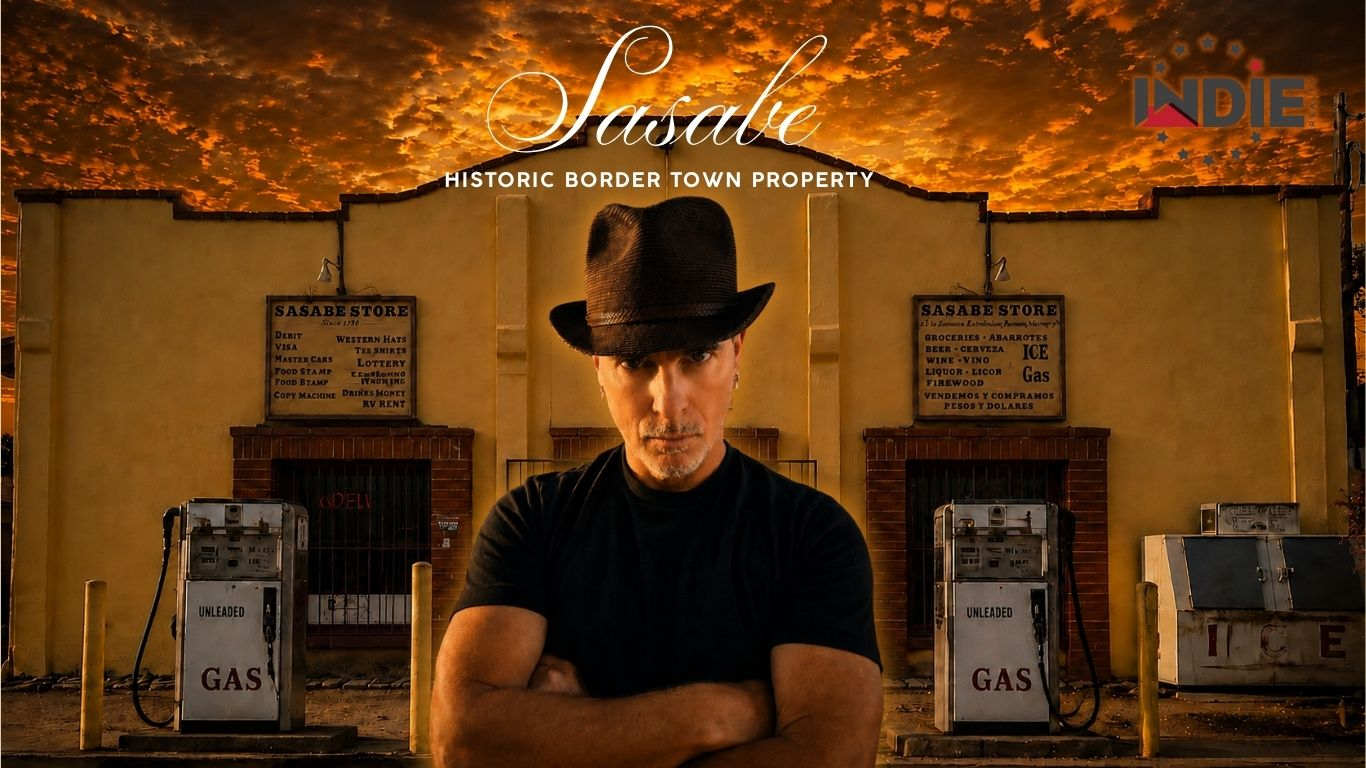
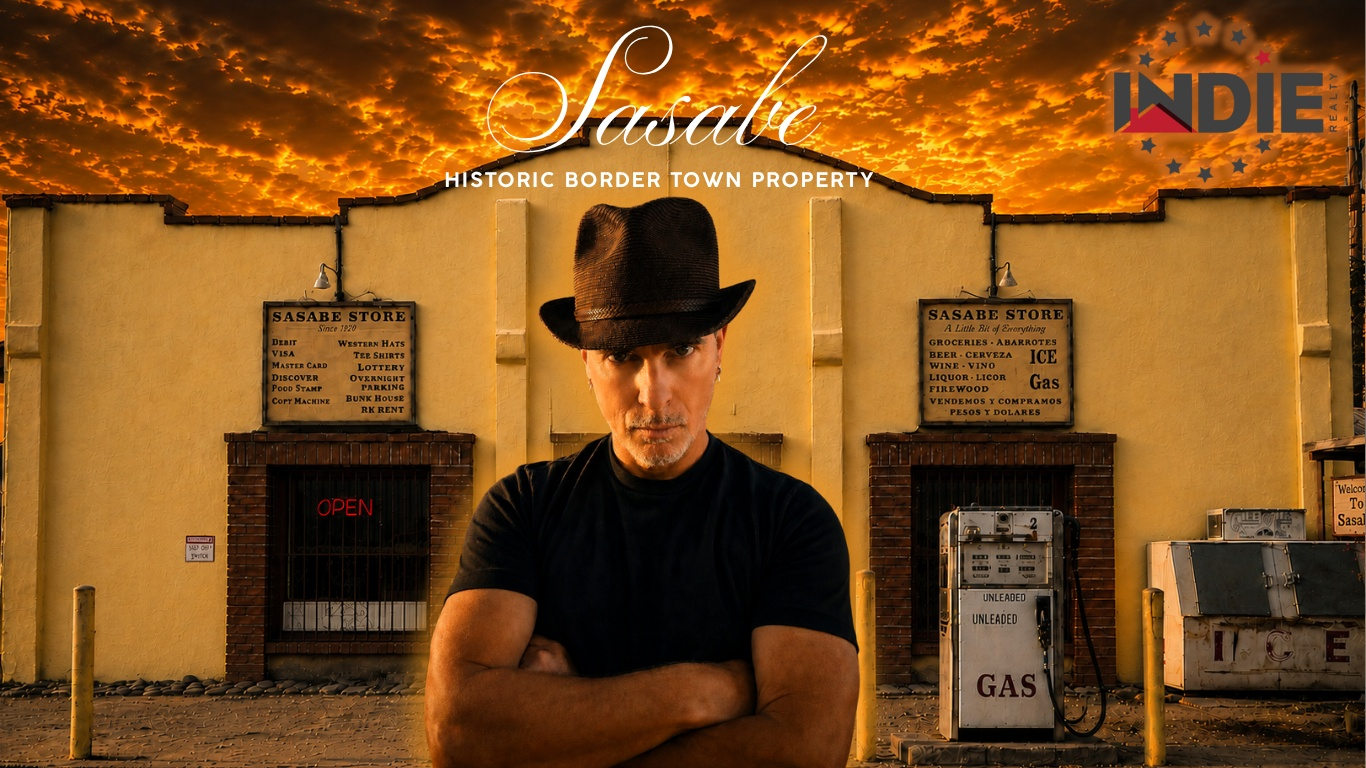
Add files via upload

diff --git a/styles.css b/styles.css
@@ -6,7 +6,7 @@
 .section-title h2,.split h2,.contact h2{font-size:clamp(48px,6vw,88px);font-weight:600;letter-spacing:.04em;text-transform:uppercase;line-height:.95;margin-bottom:0}.section-subtitle{font-family:'Cormorant Garamond',Georgia,serif;font-size:clamp(22px,2.3vw,32px);font-style:italic;color:#4d3b2d;line-height:1.25;margin:4px auto 0;max-width:760px}.section-subtitle.light-text{color:rgba(255,255,255,.86)}.section-subtitle.align-left{margin-left:0;text-align:left}.eyebrow{letter-spacing:8px;font-size:15px}.section-title{margin-bottom:42px}.section{padding:100px 30px}.cream{background:#efe3c4}.offwhite{background:#fbf7ef}
 .divider{width:330px;height:22px;margin:18px auto 22px;background:none;display:flex;align-items:center;justify-content:center;position:relative}.divider:before{content:'';display:block;width:100%;height:1px;background:linear-gradient(90deg,var(--ink) 0 38%,transparent 38% 62%,var(--ink) 62% 100%);opacity:.9;position:absolute;left:0;top:50%;transform:translateY(-50%)}.divider:after{content:'❦';font-size:22px;line-height:1;background:inherit;color:var(--ink);padding:0 14px;position:relative;z-index:2}.divider.light:before{background:linear-gradient(90deg,white 0 38%,transparent 38% 62%,white 62% 100%)}.divider.light:after{color:white}.divider.left{margin-left:0;margin-right:auto}
 #history .section-title .eyebrow{font-family:'Cormorant Garamond',Georgia,serif;font-size:clamp(50px,8vw,86px);letter-spacing:.18em;font-weight:600;color:#24211d}.split{gap:66px}.split p{font-size:17px}.framed-image{border:10px solid rgba(255,255,255,.24);box-shadow:0 12px 34px rgba(0,0,0,.16)}.spaced{font-size:18px;letter-spacing:9px;color:#1f1c18}.highlight-grid{gap:30px}.highlight-grid article{background:rgba(255,255,255,.55);box-shadow:none;border:1px solid rgba(80,61,42,.16);padding:0 0 24px;text-align:center}.highlight-grid img{height:215px;margin-bottom:22px}.highlight-grid h3{text-transform:uppercase;letter-spacing:.08em;font-size:21px}.highlight-grid p{padding:0 22px;margin-bottom:0}.wide-image{height:310px}.two-list{font-family:'Cormorant Garamond',Georgia,serif;font-size:25px;line-height:1.5}.two-list li{padding-left:8px}.italic{color:#3d2f24}.check-grid li{font-size:15px}.fineprint{font-size:14px}.parcel-tabs{margin-top:8px}.parcel-tab{background:#fffaf0}.parcel-display img{box-shadow:0 10px 28px rgba(0,0,0,.12)}.parcel-info{border:1px solid rgba(80,61,42,.16)}.disclosure-cards article{box-shadow:none;border:1px solid rgba(80,61,42,.16);background:rgba(255,255,255,.48)}.disclosure-cards h3{text-transform:uppercase;letter-spacing:.08em;font-size:20px}.button-stack .btn{border-radius:0}.footer{background:#1f1209}.footer img{max-width:220px;opacity:.95}.tagline{font-style:italic}
-@media(max-width:900px){.section-title h2,.split h2,.contact h2{font-size:clamp(40px,12vw,58px)}.section-subtitle{font-size:24px}.hero{height:68vh;min-height:460px}.divider{width:240px}.section{padding:70px 18px}.wide-image{height:210px}.highlight-grid img{height:185px}}
+@media(max-width:900px){.section-title h2,.split h2,.contact h2{font-size:clamp(40px,12vw,58px)}.section-subtitle{font-size:24px}.divider{width:240px}.section{padding:70px 18px}.wide-image{height:210px}.highlight-grid img{height:185px}}
 
 
 .section-title h2,.split h2,.contact h2{font-size:44px!important;line-height:1.15!important;text-transform:none!important;} .section-subtitle{font-size:26px!important;} @media(max-width:900px){.section-title h2,.split h2,.contact h2{font-size:34px!important}.section-subtitle{font-size:22px!important}}
@@ -182,3 +182,117 @@
   #vision .tall-image{width:100%!important;border-width:10px!important;}
   .highlight-grid img{height:210px!important;}
 }
+
+/* ===== Hamburger menu (matches Real Estate with Nate AZ) ===== */
+.hamburger-btn{position:fixed;top:16px;right:16px;z-index:300;width:50px;height:50px;border-radius:50%;background:rgba(255,255,255,.94);backdrop-filter:blur(6px);border:none;box-shadow:0 3px 12px rgba(0,0,0,.18);cursor:pointer;display:flex;align-items:center;justify-content:center;}
+.hamburger-btn .bar{position:relative;width:22px;height:2px;background:#1b1b1b;}
+.hamburger-btn .bar::before,.hamburger-btn .bar::after{content:"";position:absolute;left:0;width:22px;height:2px;background:#1b1b1b;}
+.hamburger-btn .bar::before{top:-7px;}
+.hamburger-btn .bar::after{top:7px;}
+.nav-checkbox{display:none;}
+.nav-overlay{position:fixed;inset:0;z-index:250;background:rgba(12,11,9,.97);display:flex;flex-direction:column;align-items:center;justify-content:center;gap:22px;opacity:0;pointer-events:none;transform:translateY(-8px);transition:opacity .2s ease,transform .2s ease;overflow-y:auto;padding:80px 24px 40px;}
+.nav-checkbox:checked ~ .nav-overlay{opacity:1;pointer-events:auto;transform:translateY(0);}
+.nav-overlay a{color:#fff;font-family:'Cormorant Garamond',Georgia,serif;font-size:1.7rem;text-decoration:none;opacity:.85;letter-spacing:.03em;}
+.nav-overlay a:hover{opacity:1;color:#efe3c4;}
+.nav-overlay .brand-tag{position:absolute;top:22px;left:24px;color:#fff;opacity:.6;font-size:.85rem;font-weight:600;letter-spacing:.1em;text-transform:uppercase;font-family:Montserrat,sans-serif;}
+label.hamburger-btn{display:flex;}
+
+/* ===== Full-height sections, no scroll needed within a section ===== */
+.section,.hero,.snapshot,.video-section,.parcels-section,.disclosures,.contact{
+  min-height:100vh;
+  min-height:100dvh;
+  display:flex;
+  flex-direction:column;
+  justify-content:center;
+  overflow:hidden;
+  box-sizing:border-box;
+}
+.section{padding:70px 28px 30px;}
+h1{font-size:clamp(56px,11vw,140px);}
+h2{font-size:clamp(34px,5.5vw,64px);margin-bottom:16px;}
+.section-title{margin-bottom:26px;}
+.hero-subtitle{margin:14px auto;}
+.split{gap:36px;}
+.split p{font-size:15px;margin:0 0 10px;}
+.framed-image{max-height:46vh;object-fit:cover;width:100%;}
+.spaced{margin-top:20px;font-size:14px;letter-spacing:6px;}
+.highlight-grid{gap:16px;}
+.highlight-grid img{height:110px;margin-bottom:10px;}
+.highlight-grid article{padding:0 0 12px;}
+.highlight-grid h3{font-size:16px;margin-bottom:4px;}
+.highlight-grid p{font-size:13px;padding:0 12px;}
+.wide-image{height:130px;}
+.two-list{font-size:16px;margin-top:10px;}
+.two-list li{margin-bottom:8px;}
+.italic{font-size:20px;}
+.check-grid{gap:6px 18px;}
+.check-grid li{font-size:13px;}
+.fineprint{font-size:11px;}
+.tall-image{height:38vh;}
+.video-shell img{height:min(40vw,340px);}
+.play-button{width:80px;height:80px;font-size:30px;}
+.parcel-tabs{margin-bottom:14px;}
+.parcel-tab{padding:10px 18px;font-size:13px;}
+.parcel-display img{max-height:38vh;object-fit:cover;}
+.parcel-info{padding:18px;}
+.map-frame iframe{height:32vh;}
+.disclosure-cards{gap:8px;}
+.disclosure-cards article{padding:10px;}
+.disclosure-cards h3{font-size:14px;}
+.disclosure-cards p{font-size:12px;}
+.disclosure-layout>img{min-height:0;height:100%;max-height:70vh;}
+.button-stack{gap:8px;}
+.footer{padding:30px 24px;}
+.footer img{max-width:180px;margin-bottom:12px;}
+
+@media(max-width:900px){
+  .section,.hero,.snapshot,.video-section,.parcels-section,.disclosures,.contact{min-height:auto;}
+  .nav-overlay a{font-size:1.3rem;}
+}
+
+/* ===== Snapshot split layout ===== */
+.split-snapshot{display:flex;flex-direction:row;align-items:center;gap:40px;padding:70px 28px 30px;}
+.split-snapshot .section.inner{flex:1.1;max-width:none;margin:0;}
+.split-snapshot .snapshot-photo{flex:0.9;max-width:420px;max-height:60vh;width:100%;object-fit:cover;border:10px solid rgba(255,255,255,.5);box-shadow:0 14px 40px rgba(0,0,0,.18);}
+.section-title.align-left{text-align:left;margin:0 0 20px;max-width:none;}
+.section-subtitle.align-left{margin-left:0;text-align:left;}
+@media(max-width:900px){
+  .split-snapshot{flex-direction:column;}
+  .split-snapshot .snapshot-photo{max-width:100%;}
+}
+
+/* ===== Tighten gap above section headings (move content up) ===== */
+.section{justify-content:flex-start;padding-top:56px;}
+.section-title{margin-top:0;}
+.split{justify-content:flex-start;}
+.split-snapshot{justify-content:flex-start;}
+.snapshot,.video-section,.parcels-section,.disclosures,.contact{justify-content:flex-start;padding-top:56px;}
+
+/* ===== Contact photo sizing so nothing gets cut off ===== */
+.contact-photo{max-height:44vh;object-fit:cover;}
+
+/* ===== Snapshot single-column bullet list ===== */
+.two-list.one-col{columns:1;font-size:19px;}
+.two-list.one-col li{margin-bottom:12px;}
+
+/* ===== Single-column variant for Vision checklist ===== */
+.check-grid.one-col{columns:1;max-width:520px;}
+.check-grid.one-col li{margin-bottom:10px;}
+
+/* ===== Contact icon list ===== */
+.contact-icon-list{list-style:none;margin:18px 0 0;padding:0;display:flex;flex-direction:column;gap:12px;}
+.contact-icon-list li{display:flex;align-items:center;gap:12px;font-size:18px;}
+.contact-icon-list .icon{font-size:20px;width:26px;text-align:center;flex-shrink:0;}
+.contact-icon-list a{color:inherit;text-decoration:underline;text-underline-offset:4px;}
+.contact-icon-list a:hover{color:#8a6b3f;}
+
+/* ===== Uniform typography across all sections ===== */
+h2{font-size:clamp(40px,5.5vw,64px)!important;font-weight:600;letter-spacing:.03em;text-transform:uppercase;line-height:1.05;margin:0 0 8px;}
+.section-subtitle,.italic{font-size:19px!important;font-style:italic;font-family:'Cormorant Garamond',Georgia,serif;opacity:.85;margin:0 0 18px;}
+.split p:not(.fineprint):not(.italic):not(.subtitle),
+.split-snapshot p:not(.fineprint):not(.italic):not(.subtitle),
+.disclosure-cards p{
+  font-size:16px!important;line-height:1.55;
+}
+.two-list li,.check-grid li{font-size:18px!important;}
+h3{font-size:22px;letter-spacing:.02em;}

diff --git a/index.html b/index.html
@@ -11,20 +11,22 @@
   <link rel="stylesheet" href="styles.css" />
 </head>
 <body>
-  <header class="site-header" id="top">
-    
-    <button class="nav-toggle" aria-label="Open menu">☰</button>
-    <nav class="site-nav">
-      <a href="#history">History</a>
-      <a href="#highlights">Highlights</a>
-      <a href="#snapshot">Snapshot</a>
-      <a href="#vision">Vision</a>
-      <a href="#video">Video</a>
-      <a href="#parcels">Parcels</a>
-      <a href="#location">Location</a>
-      <a href="#contact">Contact</a>
-    </nav>
-  </header>
+  <input type="checkbox" id="nav-toggle" class="nav-checkbox">
+  <label class="hamburger-btn" for="nav-toggle"><span class="bar"></span></label>
+  <div class="nav-overlay">
+    <span class="brand-tag">Own Sasabe</span>
+    <a href="#top">Home</a>
+    <a href="#history">History</a>
+    <a href="#highlights">Highlights</a>
+    <a href="#snapshot">Snapshot</a>
+    <a href="#vision">Vision</a>
+    <a href="#video">Video</a>
+    <a href="#parcels">Parcels</a>
+    <a href="#location">Location</a>
+    <a href="#info">Disclosures</a>
+    <a href="#contact">Contact</a>
+  </div>
+  <a id="top"></a>
 
   <main>
     <section class="hero section-dark">
@@ -61,39 +63,39 @@
       </div>
     </section>
 
-    <section id="snapshot" class="snapshot cream">
-      <img class="wide-image" src="assets/images/drone-panorama.png" alt="Aerial panorama of Sasabe property land" />
+    <section id="snapshot" class="snapshot cream split-snapshot">
       <div class="section inner reveal">
-        <div class="section-title">
+        <div class="section-title align-left">
           <h2>Property Snapshot</h2>
-          <p class="section-subtitle">A quick overview of the property</p>
+          <p class="section-subtitle align-left">A quick overview of the property</p>
         </div>
-        <ul class="two-list">
-          <li>Approximately 453 Acres · Three Parcels</li>
-          <li>Offered at $3,500,000</li>
+        <ul class="two-list one-col">
+          <li>U.S.–Mexico Port of Entry</li>
+          <li>Offered at $5,000,000</li>
           <li>Historic Sasabe Store</li>
           <li>United States Post Office</li>
           <li>Residential (RH) Zoning</li>
-          <li>Renovation & Redevelopment Opportunity</li>
+          <li>Baboquivari Mountain Views</li>
           <li>Private Well</li>
           <li>State Route 286 Frontage</li>
-          <li>U.S.–Mexico Port of Entry</li>
-          <li>Baboquivari Mountain Views</li>
+          <li>Approximately 453 Acres · Three Parcels</li>
+          <li>Renovation & Redevelopment Opportunity</li>
         </ul>
       </div>
+      <img class="framed-image snapshot-photo" src="assets/images/snapshot-mountain.jpg" alt="Baboquivari Mountain sunset" />
     </section>
 
-    <section id="vision" class="section cream split reverse reveal">
+    <section id="vision" class="section cream split reveal">
       <div>
         <h2>Imagine Owning Your Own Town</h2>
         <p class="italic">A rare opportunity to shape its next chapter.</p>
         <h3>What could your vision become?</h3>
-        <ul class="check-grid">
-          <li>Legacy Family Ranch</li><li>Agriculture or Ranching Operation</li><li>Historic Preservation Project</li><li>Conservation & Stewardship</li><li>Private Retreat</li><li>Long-Term Land Investment</li><li>Boutique Hospitality Destination</li><li>One-of-a-Kind Southwest Landmark</li><li>Film & Photography Location</li><li>Artist or Creative Community</li>
+        <ul class="check-grid one-col">
+          <li>Legacy Family Ranch</li><li>Historic Preservation Project</li><li>Private Retreat</li><li>Boutique Hospitality Destination</li><li>Film & Photography Location</li><li>Agriculture or Ranching Operation</li><li>Conservation & Stewardship</li><li>Long-Term Land Investment</li><li>One-of-a-Kind Southwest Landmark</li><li>Artist or Creative Community</li>
         </ul>
         <p class="fineprint">The property's unique character invites buyers to imagine a wide range of future possibilities. Any future use or development remains subject to buyer due diligence, applicable zoning, and governmental approvals.</p>
       </div>
-      <img class="tall-image" src="assets/images/vision-mountain.png" alt="Baboquivari Mountain sunset scene" />
+      <img class="tall-image" src="assets/images/vision-nathan.jpg" alt="Nathan Morrison looking out at Baboquivari Mountain sunset" />
     </section>
 
     <section id="video" class="section dark video-section">
@@ -134,7 +136,7 @@
     </section>
 
     <section id="info" class="section cream disclosures reveal">
-      <div class="section-title"><h2>Important Information</h2><p class="section-subtitle">Property Disclosures & General Information</p></div>
+      <div class="section-title align-left"><h2>Important Information</h2></div>
       <div class="disclosure-layout">
         <div class="disclosure-cards">
           <article><h3>Marketing Materials</h3><p>Some images on this website have been digitally enhanced or created using artificial intelligence for illustrative and marketing purposes. These images are intended to convey the character and atmosphere of the property and should not be interpreted as representations of current conditions.</p></article>
@@ -151,7 +153,7 @@
       <p class="fineprint center">All information deemed reliable but not guaranteed. Buyers should independently verify all information.</p>
     </section>
 
-    <section id="contact" class="contact section cream split reverse reveal">
+    <section id="contact" class="contact section cream split reveal">
       <div>
         <h2>Interested in Learning More?</h2>
         <p>Whether you are an investor, developer, or preservationist, I’d be happy to answer your questions and provide additional information about this extraordinary opportunity.</p>
@@ -159,14 +161,13 @@
           <h3>Nathan Morrison</h3>
           <p class="subtitle">Realtor, Indie Realty</p>
         </div>
-        <div class="button-stack">
-          <a class="btn" href="tel:15204610058">Call Nathan</a>
-          <a class="btn" href="mailto:nate@indie-realty.com?subject=Own Sasabe Inquiry">Email Nathan</a>
-          <a class="btn" href="https://realestatewithnateaz.com" target="_blank" rel="noopener">Visit Real Estate With Nate</a>
-          <button class="btn" id="shareBtn">Share This Property</button>
-        </div>
+        <ul class="contact-icon-list">
+          <li><span class="icon">&#9742;</span><a href="tel:15204610058">520.461.0058</a></li>
+          <li><span class="icon">&#9993;</span><a href="mailto:nate@indie-realty.com?subject=Own Sasabe Inquiry">nate@indie-realty.com</a></li>
+          <li><span class="icon">&#127760;</span><a href="https://nathanmorrison.indie-realty.com" target="_blank" rel="noopener">nathanmorrison.indie-realty.com</a></li>
+        </ul>
       </div>
-      <img class="tall-image" src="assets/images/contact-286.png" alt="Nathan Morrison near State Route 286 sign" />
+      <img class="tall-image contact-photo" src="assets/images/contact-286-new.jpg" alt="Nathan Morrison at the State Route 286 sign at sunset" />
     </section>
   </main>
 

diff --git a/script.js b/script.js
@@ -1,4 +1,4 @@
-const navToggle=document.querySelector('.nav-toggle');const nav=document.querySelector('.site-nav');navToggle?.addEventListener('click',()=>nav.classList.toggle('open'));document.querySelectorAll('.site-nav a').forEach(a=>a.addEventListener('click',()=>nav.classList.remove('open')));
+document.querySelectorAll('.nav-overlay a').forEach(link=>link.addEventListener('click',()=>{const cb=document.querySelector('.nav-checkbox');if(cb)cb.checked=false}));
 const parcelData={1:{title:'Parcel 1',acres:'Approx. 127.78 Acres',image:'assets/images/parcel-1.jpg'},2:{title:'Parcel 2',acres:'Approx. 212.58 Acres',image:'assets/images/parcel-2.jpg'},3:{title:'Parcel 3',acres:'Approx. 112.95 Acres',image:'assets/images/parcel-3.jpg'}};
 document.querySelectorAll('.parcel-tab').forEach(btn=>btn.addEventListener('click',()=>{const p=parcelData[btn.dataset.parcel];document.getElementById('parcelImage').src=p.image;document.getElementById('parcelImage').alt=p.title+' map';document.getElementById('parcelTitle').textContent=p.title;document.getElementById('parcelAcres').textContent=p.acres;document.querySelectorAll('.parcel-tab').forEach(b=>b.classList.remove('active'));btn.classList.add('active')}));
 document.querySelectorAll('.video-shell').forEach(shell=>shell.addEventListener('click',()=>{const id=shell.dataset.videoId;if(!id||id==='REPLACE_WITH_YOUTUBE_ID'){alert('Video URL placeholder: replace REPLACE_WITH_YOUTUBE_ID in index.html with the final YouTube video ID.');return}shell.innerHTML=`<iframe width="100%" height="620" src="https://www.youtube.com/embed/${id}?autoplay=1" title="Sasabe Property Tour" frameborder="0" allow="accelerometer; autoplay; clipboard-write; encrypted-media; gyroscope; picture-in-picture; web-share" allowfullscreen></iframe>`}));
